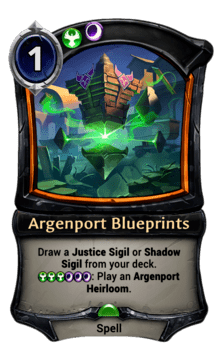
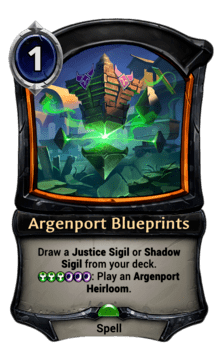
deploy: c89f4dc08f56c50c78dcbde881515ef96234383c

diff --git a/epc/index.html b/epc/index.html
@@ -3659,52 +3659,52 @@ Set11 #152;; 5S; Subversion Slug;
 Set11 #153;; 5S; Toxic Cloud;
 Set11 #154;; 6SSS; Fall to Ruin;
 Set11 #155;; 7SS; Inciter of Madness;
-Set11 #156; 1FT; 1FT; Praxis Blueprints;
+Set11 #156; 1FT; 1; Praxis Blueprints;
 Set11 #157;; 2FT; Searing Strike;
 Set11 #158;; 3FT; Málaga Amphitheatre;
 Set11 #159;; 3FT; Speardancer;
 Set11 #160;; 6FFTT; Marshal Izia;
-Set11 #161; 1FJ; 1FJ; Rakano Blueprints;
+Set11 #161; 1FJ; 1; Rakano Blueprints;
 Set11 #162;; 3FJ; Queen's Elite;
 Set11 #163;; 4FJ; Overclocked Sentinel;
 Set11 #164;; 6FFJJ; Pisto, Ever-Churning;
 Set11 #165;; 7FJ; Mechanized Constructor;
-Set11 #166; 1FP; 1FP; Skycrag Blueprints;
+Set11 #166; 1FP; 1; Skycrag Blueprints;
 Set11 #167;; 2FP; Prowling Amaruq;
 Set11 #168;; 3FP; Burnished Grenahawk;
 Set11 #169;; 4FP; Tandem Training;
-Set11 #170; 1FS; 1FS; Stonescar Blueprints;
+Set11 #170; 1FS; 1; Stonescar Blueprints;
 Set11 #171;; 2FS; Skullbreaker;
 Set11 #172;; 4FS; Disgraced Cadet;
 Set11 #173;; 4FS; Sanguine Reaper;
-Set11 #174; 1TJ; 1TJ; Combrei Blueprints;
+Set11 #174; 1TJ; 1; Combrei Blueprints;
 Set11 #175;; 1TJ; Gavel's Insight;
 Set11 #176;; 3TJ; Teryius, Martial Master;
 Set11 #177;; 4TJ; Nobles' Enforcer;
-Set11 #178; 1TP; 1TP; Elysian Blueprints;
+Set11 #178; 1TP; 1; Elysian Blueprints;
 Set11 #179;; 2TP; Mandatory Retirement;
 Set11 #180;; 2TP; Ring of Glamour;
 Set11 #181;; 3TP; Launching Asri;
 Set11 #182;; 5TP; Entratius, Beckoning;
-Set11 #183; 1TS; 1TS; Xenan Blueprints;
+Set11 #183; 1TS; 1; Xenan Blueprints;
 Set11 #184;; 2TS; Aymar, Dark Summoner;
 Set11 #185;; 3TS; Lurking Feeder;
 Set11 #186;; 4TS; Clinging Scavenger;
-Set11 #187; 1JP; 1JP; Hooru Blueprints;
+Set11 #187; 1JP; 1; Hooru Blueprints;
 Set11 #188;; 2JP; Freeze Out;
 Set11 #189;; 3JP; Raildriver Trainee;
 Set11 #190;; 3JP; Stormhalt Concoction;
-Set11 #191; 1JS; 1JS; Argenport Blueprints;
+Set11 #191; 1JS; 1; Argenport Blueprints;
 Set11 #192;; 2JS; Collapse;
 Set11 #193;; 4JS; A Life For A Life;
 Set11 #194;; 4JS; D'Angolo Racketeers;
 Set11 #195;; 5JS; Death's Doorstep;
-Set11 #196; 1PS; 1PS; Feln Blueprints;
+Set11 #196; 1PS; 1; Feln Blueprints;
 Set11 #197;; 1PS; Voltage Generator;
 Set11 #198;; 2PS; Surprise Raid;
 Set11 #199;; 3PS; Foraging Tri-Toe;
 Set11 #200;; 5PS; Sindar, the Corruptor;
-Set11 #201;; 1; Prism Stone;
+Set11 #201;X ; 1; Prism Stone;
 Set11 #202;; 3; Camouflaged Soldier;
 Set11 #203;; 3; Hired Cutthroat;
 Set11 #204;; 3; Manufactured Force;
